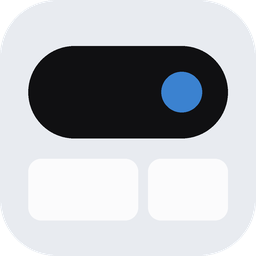
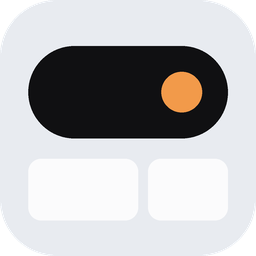
1.7.0: orange accent everywhere
#F29A4A in Dark Matte, #D97A2B in White Matte for readable text on light tiles.
Warnings move to a muted amber so they stay distinct from the accent.

Claude-Session: https://claude.ai/code/session_017BvJNwLF64rbG3c7QdDmak

Changed region(s): [[0.625, 0.2812, 0.8125, 0.4375]]

diff --git a/renderer/style.css b/renderer/style.css
@@ -10,7 +10,7 @@
   --spring: cubic-bezier(.32, 1.28, .5, 1);
   --ease: cubic-bezier(.3, .8, .3, 1);
   --warn: #C9A24A;      /* muted yellow */
-  --alert: #C8794A;     /* muted orange */
+  --alert: #C9A24A;     /* muted amber (orange is now the accent) */
   --danger: #C25B5B;    /* muted red */
   --font: "Segoe UI Variable Text", "Segoe UI", system-ui, sans-serif;
   --font-display: "Segoe UI Variable Display", "Segoe UI", system-ui, sans-serif;
@@ -21,12 +21,12 @@ html[data-theme="white"] {
   --tile: #FBFBFC;
   --text: #1E2129;
   --text-2: #545A69;
-  --accent: #3B82D0;
+  --accent: #D97A2B;
   --line: rgba(30, 33, 41, .07);
   --track: rgba(30, 33, 41, .14);
   --btn: rgba(30, 33, 41, .05);
   --btn-hover: rgba(30, 33, 41, .09);
-  --btn-on: rgba(59, 130, 208, .14);
+  --btn-on: rgba(217, 122, 43, .14);
   --shadow: 0 14px 34px rgba(16, 20, 30, .16), 0 2px 6px rgba(16, 20, 30, .08);
   --sun: #E8B84A;
   --cloud: #DDE2EA;
@@ -39,12 +39,12 @@ html[data-theme="dark"] {
   --tile: #21242D;
   --text: #E3E7EF;
   --text-2: #A4ABBA;
-  --accent: #8FC7FF;
+  --accent: #F29A4A;
   --line: rgba(227, 231, 239, .06);
   --track: rgba(227, 231, 239, .16);
   --btn: rgba(227, 231, 239, .06);
   --btn-hover: rgba(227, 231, 239, .11);
-  --btn-on: rgba(143, 199, 255, .16);
+  --btn-on: rgba(242, 154, 74, .16);
   --shadow: 0 16px 40px rgba(0, 0, 0, .45), 0 2px 6px rgba(0, 0, 0, .3);
   --sun: #D9B25A;
   --cloud: #C9CFDA;
@@ -106,7 +106,7 @@ svg { display: block; width: 100%; height: 100%; }
 #island.s-compact .compact { opacity: 1; transition-delay: .12s; }
 .compact .mini-art { width: 20px; height: 20px; border-radius: 50%; background: #2a2d36 center/cover; }
 .compact .mini-art.spin { animation: spin 6s linear infinite; }
-.compact .ico { width: 18px; height: 18px; color: #8FC7FF; }
+.compact .ico { width: 18px; height: 18px; color: #F29A4A; }
 .compact .ctext { font-size: 12px; font-variant-numeric: tabular-nums; color: #E3E7EF; letter-spacing: .2px; }
 
 .eq { display: flex; gap: 2px; align-items: flex-end; height: 14px; }
@@ -118,7 +118,7 @@ svg { display: block; width: 100%; height: 100%; }
 @keyframes eq { 0%, 100% { height: 30%; } 50% { height: 100%; } }
 
 .workgrid { display: grid; grid-template-columns: repeat(3, 4px); gap: 2px; }
-.workgrid i { width: 4px; height: 4px; border-radius: 1px; background: #8FC7FF; opacity: .25; animation: blink 1.2s steps(1) infinite; }
+.workgrid i { width: 4px; height: 4px; border-radius: 1px; background: #F29A4A; opacity: .25; animation: blink 1.2s steps(1) infinite; }
 .workgrid i:nth-child(1) { animation-delay: 0s; } .workgrid i:nth-child(2) { animation-delay: .1s; }
 .workgrid i:nth-child(3) { animation-delay: .2s; } .workgrid i:nth-child(6) { animation-delay: .3s; }
 .workgrid i:nth-child(9) { animation-delay: .4s; } .workgrid i:nth-child(8) { animation-delay: .5s; }
@@ -240,7 +240,7 @@ html[data-theme="dark"] .music.has-art .ibtn { color: #F2F4F8; }
   flex: none; min-width: 18px; height: 18px; padding: 0 5px; border-radius: 9px; background: var(--accent);
   color: #fff; font-size: 11px; font-weight: 600; display: grid; place-items: center;
 }
-html[data-theme="dark"] .badge { color: #10233A; }
+html[data-theme="dark"] .badge { color: #2A1606; }
 .msg .when { margin-left: auto; font-size: 12px; color: var(--text-2); font-variant-numeric: tabular-nums; flex: none; padding-left: 6px; }
 .msg .line { font-size: 12.5px; color: var(--text-2); margin-top: 1px; }
 .msg .app { font-size: 10.5px; color: var(--text-2); opacity: .8; flex: none; }
@@ -320,6 +320,6 @@ html[data-theme="dark"] .badge { color: #10233A; }
 .pbtn:hover { background: var(--btn-hover); }
 .pbtn:active { transform: scale(.97); }
 .pbtn.allow { background: var(--accent); color: #fff; }
-html[data-theme="dark"] .pbtn.allow { color: #10233A; }
+html[data-theme="dark"] .pbtn.allow { color: #2A1606; }
 .pbtn[disabled] { opacity: .4; pointer-events: none; }
 .pbtn kbd { font: 10.5px var(--font); opacity: .7; font-weight: 500; }

diff --git a/renderer/settings.html b/renderer/settings.html
@@ -5,8 +5,8 @@
   <meta http-equiv="Content-Security-Policy" content="default-src 'self'; style-src 'self' 'unsafe-inline'; script-src 'self'">
   <title>FJBC Notch settings</title>
   <style>
-    html[data-theme="white"] { --bg:#F7F8FA; --tile:#FBFBFC; --text:#1E2129; --text-2:#545A69; --accent:#3B82D0; --line:rgba(30,33,41,.09); --btn:rgba(30,33,41,.05); --btn-h:rgba(30,33,41,.09); --on:rgba(59,130,208,.14); --mono:#F1F3F6; }
-    html[data-theme="dark"]  { --bg:#16181F; --tile:#21242D; --text:#E3E7EF; --text-2:#A4ABBA; --accent:#8FC7FF; --line:rgba(227,231,239,.08); --btn:rgba(227,231,239,.06); --btn-h:rgba(227,231,239,.11); --on:rgba(143,199,255,.16); --mono:#191B22; }
+    html[data-theme="white"] { --bg:#F7F8FA; --tile:#FBFBFC; --text:#1E2129; --text-2:#545A69; --accent:#D97A2B; --line:rgba(30,33,41,.09); --btn:rgba(30,33,41,.05); --btn-h:rgba(30,33,41,.09); --on:rgba(217,122,43,.14); --mono:#F1F3F6; }
+    html[data-theme="dark"]  { --bg:#16181F; --tile:#21242D; --text:#E3E7EF; --text-2:#A4ABBA; --accent:#F29A4A; --line:rgba(227,231,239,.08); --btn:rgba(227,231,239,.06); --btn-h:rgba(227,231,239,.11); --on:rgba(242,154,74,.16); --mono:#191B22; }
     * { box-sizing: border-box; }
     body { margin:0; background:var(--bg); color:var(--text); font:13.5px/1.45 "Segoe UI Variable Text","Segoe UI",system-ui,sans-serif; -webkit-font-smoothing:antialiased; }
     main { padding: 22px 22px 28px; max-width: 640px; margin: 0 auto; }
@@ -37,7 +37,7 @@
     .btn:hover { background: var(--btn-h); }
     .btn.primary { background: var(--accent); color: #fff; }
     .btn:disabled { opacity: .45; cursor: default; }
-    html[data-theme="dark"] .btn.primary { color: #10233A; }
+    html[data-theme="dark"] .btn.primary { color: #2A1606; }
     pre { background: var(--mono); border: 1px solid var(--line); border-radius: 12px; padding: 10px 12px; font: 11.5px/1.5 "Cascadia Mono", Consolas, monospace; overflow: auto; max-height: 220px; margin: 8px 0; user-select: text; }
     p { margin: 6px 0; }
     .note { color: var(--text-2); font-size: 12px; }
